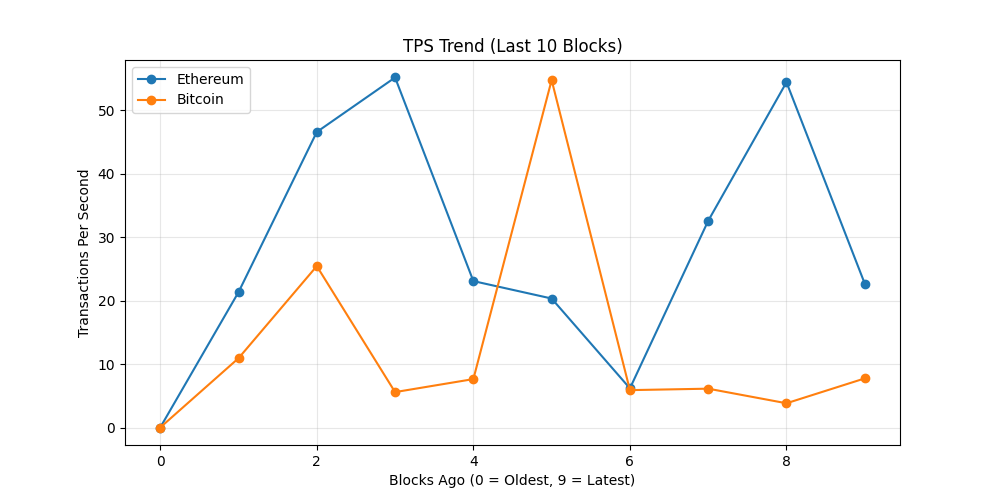
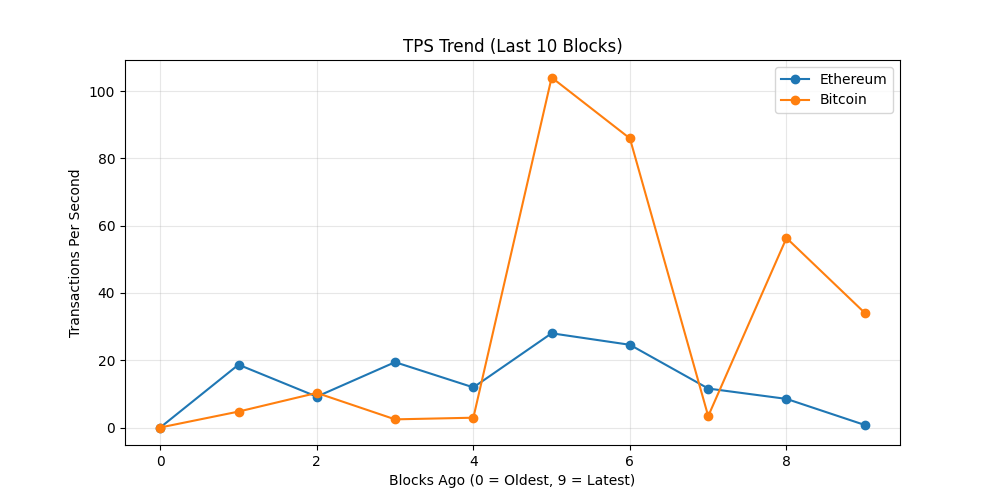
chore: update on-chain dashboard

diff --git a/README.md b/README.md
@@ -19,7 +19,7 @@ The README itself acts as the dashboard and is regenerated automatically on a 6 
 demonstrating a production-style, infrastructure-focused observability workflow rather
 than a traditional UI-driven approach.
 
-_Last updated: 2026-07-07 20:12 UTC_
+_Last updated: 2026-07-08 03:42 UTC_
 
 ## API Usage (GetBlock.io)
 - Calls used: **24**
@@ -27,8 +27,8 @@ _Last updated: 2026-07-07 20:12 UTC_
 ## Network Metrics
 | Chain | Block Height | TX Count | TPS (10 blk avg) | Block Util | Avg Fee |
 |------|-------------|----------|------------------|------------|---------|
-| Ethereum | 25482986 | 272 | 22.67 | 42.11% | 0.1 Gwei |
-| Bitcoin | 957081 | 4536 | 7.74 | 99.8% | N/A |
+| Ethereum | 25485228 | 18 | 0.75 | 13.45% | 0.1 Gwei |
+| Bitcoin | 957123 | 6233 | 34.06 | 99.8% | N/A |
 
 ## Visuals
 ### Transactions Trend
@@ -43,11 +43,7 @@ _Last updated: 2026-07-07 20:12 UTC_
 ## Whale Alerts (latest block)
 - Transaction hashes are truncated for readability.
 - Full hashes are available in `dashboards/metrics.json`
-- Bitcoin | 145.31 BTC | `7de90ec3d269…`
-- Bitcoin | 149.98 BTC | `a880913d27ed…`
-- Bitcoin | 253.12 BTC | `6899c02654cb…`
-- Bitcoin | 324.76 BTC | `c2651fe86db3…`
-- Bitcoin | 255.0 BTC | `769154964de5…`
+No whale-sized transfers detected in latest blocks.
 
 ## Run locally
 
